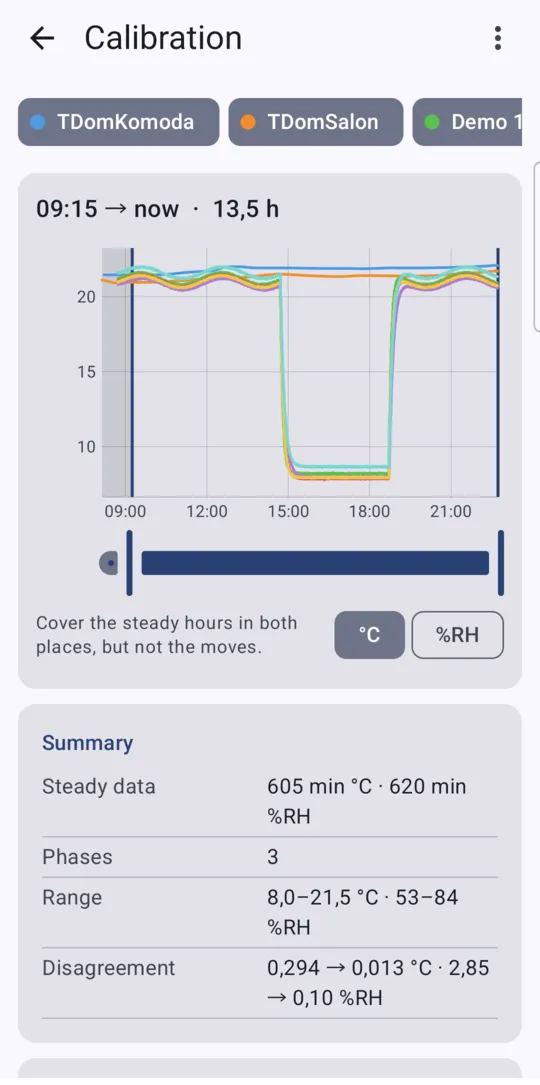
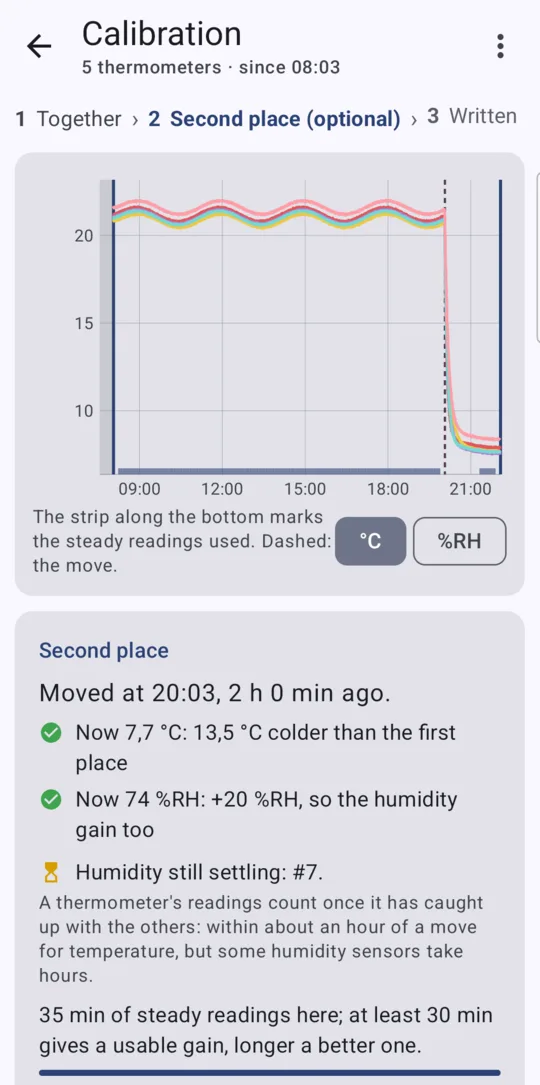
Download links point at the Android 0.4.0 release
The site's calibration screenshot shows the guided session in its second
place (demo devices) instead of the old window slider. Its Android texts
drop the notification's Stop button, mention the reboot restart and the
calibration notification, and say the phone runs the fit with shorter
windows and a precision estimate.

diff --git a/site/index.html b/site/index.html
@@ -315,28 +315,28 @@ thermo</code></pre>
 <section id="android" class="alt" aria-labelledby="andr">
   <div class="wrap">
     <h2 id="andr">On your phone too</h2>
-    <p class="section-lead">The Android app does what the terminal does, laid out for touch. A card per thermometer, a chart you can scrub with a finger, long-press to select several devices for clock sync, log download or settings. Calibration and signal levelling get sliders instead of keys, and every write to a thermometer asks first.</p>
-    <p class="cta"><a class="btn primary" href="https://github.com/arturzielazny/atc-thermo/releases/tag/android-v0.3.0">
+    <p class="section-lead">The Android app does what the terminal does, laid out for touch. A card per thermometer, a chart you can scrub with a finger, long-press to select several devices for clock sync, log download or settings. Calibration is a guided session that says how precise the corrections already are and how long a better level takes, signal levelling gets sliders instead of keys, and every write to a thermometer asks first.</p>
+    <p class="cta"><a class="btn primary" href="https://github.com/arturzielazny/atc-thermo/releases/tag/android-v0.4.0">
       <svg viewBox="0 0 24 24" fill="none" stroke="currentColor" stroke-width="2" aria-hidden="true"><path d="M12 4v11M7 10l5 5 5-5M5 20h14"/></svg>
       Download the APK
     </a></p>
     <div class="phones">
       <figure class="shot"><img src="assets/android-dashboard.webp" width="540" height="1085" alt="thermo Android dashboard: temperature chart of two thermometers with a touch tooltip, time span chips, and a card per device with temperature, humidity, battery and signal" loading="lazy"><figcaption>Dashboard: drag across the chart to read every device at one moment.</figcaption></figure>
-      <figure class="shot"><img src="assets/android-calibration.webp" width="540" height="1085" alt="thermo Android calibration screen: device chips, a 13.5 hour chart with a window slider below it, and a summary of steady data, phases and disagreement before and after" loading="lazy"><figcaption>Calibration: pick devices, drag the window over the steady hours. Shown with the app's simulated demo devices.</figcaption></figure>
+      <figure class="shot"><img src="assets/android-calibration.webp" width="540" height="1085" alt="thermo Android calibration screen in the second place: steps Together, Second place and Written, a chart of five thermometers moved from 21 °C to 8 °C with a dashed line at the move and a strip under the steady readings, and checks that the place is 13.5 °C colder and 20 %RH more humid, that one device's humidity is still settling, and that 35 minutes of steady readings were collected" loading="lazy"><figcaption>Calibration: after a move to a second place for the gains, the app waits for each thermometer to catch up. Shown with the app's simulated demo devices.</figcaption></figure>
       <figure class="shot"><img src="assets/android-levelling.webp" width="540" height="1085" alt="thermo Android signal levelling screen: a target of −70 dBm, per-device progress and planned TX power change, and a signal strength chart" loading="lazy"><figcaption>Signal levelling: listens, then proposes a TX power change per device.</figcaption></figure>
     </div>
     <div class="features phone-notes">
       <div class="card">
         <h3>Keeps recording</h3>
-        <p>With the app closed it records in the background behind a notification with a Stop button, and fills gaps from the device logs when it hears a thermometer again. A home-screen widget shows the latest readings.</p>
+        <p>With the app closed it records in the background behind a notification, also after a reboot or an app update, and fills gaps from the device logs when it hears a thermometer again. It also tells you when a calibration reaches the precision you picked. A home-screen widget shows the latest readings.</p>
       </div>
       <div class="card">
         <h3>Same files, same maths</h3>
-        <p>History is the same daily CSV as on the desktop, so it can be shared to a computer or imported from one. The calibration is a port of the Rust code and gives the same result on the same data.</p>
+        <p>History is the same daily CSV as on the desktop, so it can be shared to a computer or imported from one. The calibration fit is a port of the Rust code and gives the same result on the same data; the phone runs it with shorter windows and estimates its precision as it goes.</p>
       </div>
       <div class="card">
         <h3>Install the APK</h3>
-        <p>Android 8 or newer. <a href="https://github.com/arturzielazny/atc-thermo/releases/tag/android-v0.3.0">Download the APK</a> from GitHub and open it on the phone; there's no store listing yet. Reading has been tested on a Galaxy S21; writing from the phone is newer than on the desktop. To build it yourself, see <a href="https://github.com/arturzielazny/atc-thermo/tree/main/android"><code>android/</code></a>.</p>
+        <p>Android 8 or newer. <a href="https://github.com/arturzielazny/atc-thermo/releases/tag/android-v0.4.0">Download the APK</a> from GitHub and open it on the phone; there's no store listing yet. Reading has been tested on a Galaxy S21; writing from the phone is newer than on the desktop. To build it yourself, see <a href="https://github.com/arturzielazny/atc-thermo/tree/main/android"><code>android/</code></a>.</p>
       </div>
     </div>
   </div>

diff --git a/android/README.md b/android/README.md
@@ -8,7 +8,7 @@ firmware (THB1, THB2, BTH01, TH05, …; ported from the terminal app, not yet tr
 phone). Kotlin and Jetpack Compose (Material 3), no other dependencies. Android 8 and
 newer.
 
-**Install:** download the APK from the [Android release](https://github.com/arturzielazny/atc-thermo/releases/tag/android-v0.3.0) and open it on
+**Install:** download the APK from the [Android release](https://github.com/arturzielazny/atc-thermo/releases/tag/android-v0.4.0) and open it on
 the phone (allow installing from your browser or file manager when asked).
 
 ## What it does
